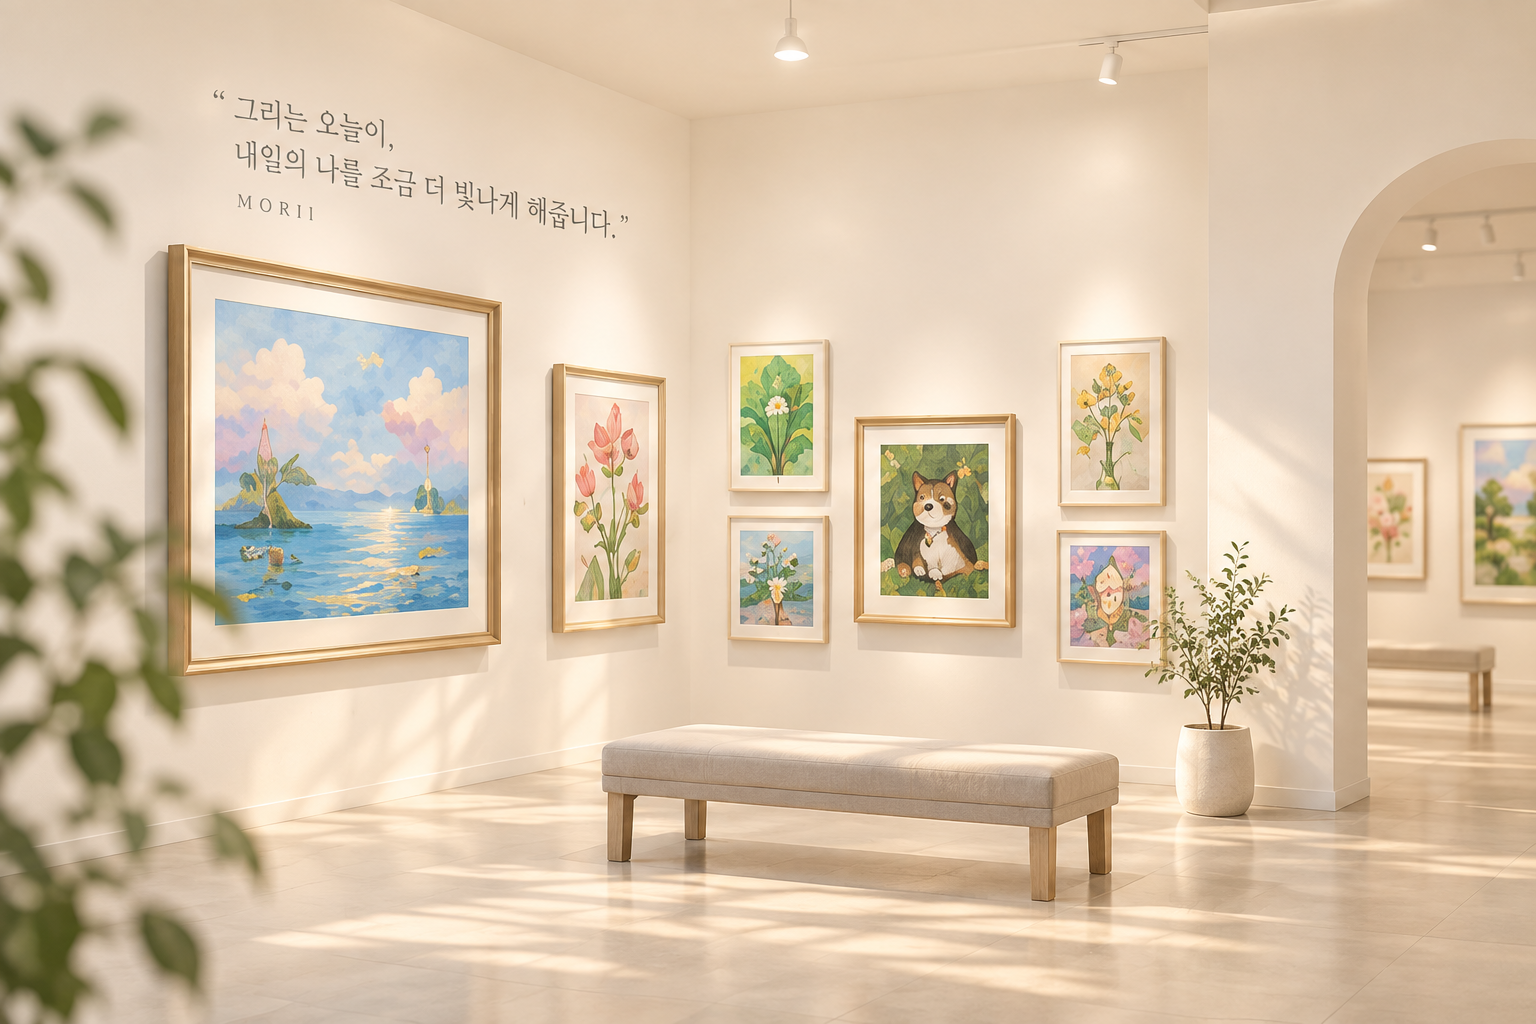
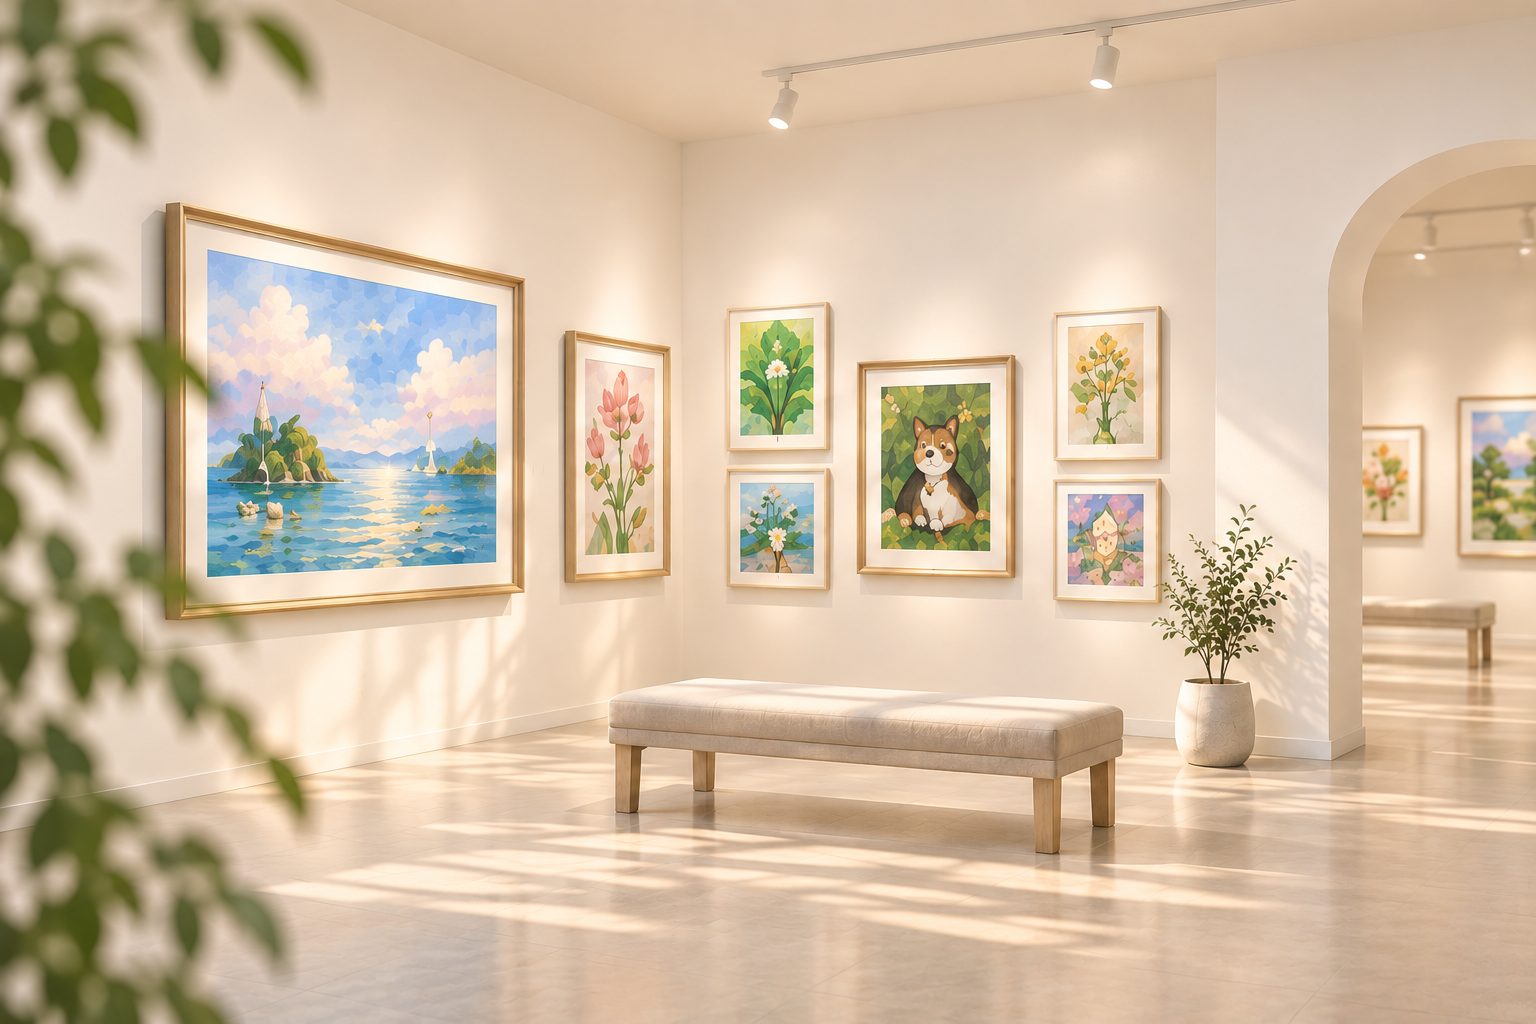
Redesign home page with elegant typography
- Updated home background image (home-bg.png)
- Added serif font typography for elegance
- Main title: '오늘의 마음을, 그림으로 남겨보세요.'
- Subtitle: '당신의 마음이 머무는 작은 전시공간, MORII'
- Black text (text-ink) on gallery background
- Top content centered vertically (flex-1 justify-center)
- Button positioned below text (mb-20)
- Matches programs page styling and layout
- Professional gallery entrance feel

diff --git a/src/app/(main)/check/page.tsx b/src/app/(main)/check/page.tsx
@@ -3,7 +3,7 @@ import Link from "next/link";
 export default function HomePage() {
   return (
     <div
-      className="flex h-full w-full flex-col items-center justify-end px-8 py-12"
+      className="flex h-full w-full flex-col items-center justify-between px-8 py-12"
       style={{
         backgroundImage: "url('/assets/home/home-bg.png')",
         backgroundSize: "cover",
@@ -11,9 +11,20 @@ export default function HomePage() {
         backgroundAttachment: "fixed",
       }}
     >
+      {/* Top Content */}
+      <div className="flex flex-col items-center text-center pt-16 flex-1 justify-center">
+        <h1 className="text-4xl font-serif font-bold text-ink mb-4 leading-relaxed">
+          오늘의 마음을, 그림으로 남겨보세요.
+        </h1>
+        <p className="text-base font-serif text-ink/80 font-light max-w-md">
+          당신의 마음이 머무는 작은 전시공간, <span className="font-bold">MORII</span>
+        </p>
+      </div>
+
+      {/* Bottom Button */}
       <Link
         href="/diary"
-        className="mb-12 flex items-center justify-center gap-2 rounded-full bg-white px-6 py-3 text-sm font-semibold text-ink shadow-lg hover:bg-white/90 transition"
+        className="mb-20 flex items-center justify-center gap-2 rounded-full bg-white px-6 py-3 text-sm font-semibold text-ink shadow-lg hover:bg-white/90 transition"
       >
         <span>+</span>
         <span>새 작품 그리기</span>
